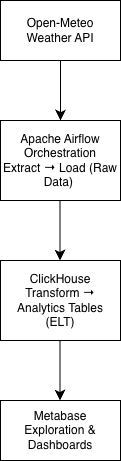
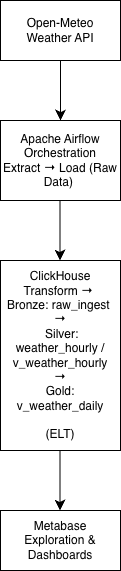
updated readme: bronze/silver/gold views to rid anomalous data, and small fixes

diff --git a/README.md b/README.md
@@ -4,7 +4,7 @@
 
 The purpose of this project is to create a **modern analytics pipeline**.
 
-**Apache Airflow** orchestrates the pipeline. It ingests raw data from **open-meteo** (a weather API), transforms the data with a DAG written in Python, stores the analytics data in **ClickHouse**, and then visualizes it with **Metabase**.
+**Apache Airflow** orchestrates the pipeline. It ingests raw data from **open-meteo** (a weather API), transforms the data with a DAG written in Python, stores the analytics data in **ClickHouse**, and then visualizes it with **Metabase**. This follows a standard ELT pattern.
 
 ---
 
@@ -30,11 +30,15 @@ The major goals were to demonstrate:
 
 ## Architectural Overview
 
-Source Data<br>
+Source Data (open-meteo API)<br>
 ↓<br>
-Airflow DAG (Extract → Transform → Load)<br>
+Airflow DAG (Extract → Load raw data)<br>
 ↓<br>
-ClickHouse (Analytics Tables)<br>
+ClickHouse — Bronze Layer (raw ingestion, append-only)<br>
+↓<br>
+ClickHouse — Silver Layer (hourly analytics, deduplicated)<br>
+↓<br>
+ClickHouse — Gold Layer (daily business metrics)<br>
 ↓<br>
 Metabase (Exploration & Dashboards)
 
@@ -42,6 +46,16 @@ Metabase (Exploration & Dashboards)
 
 ![Architecture Overview](docs/screenshots/weather-pipeline-architecture.png)
 <br>_High-level architecture overview showing data flow from ingestion to analytics and visualization._
+
+---
+
+## Key Design Decisions
+
+The following decisions were made to prioritize data correctness, flexibility, and observability.
+
+- Chose ELT over ETL to keep raw data immutable and transformations flexible
+- Used ClickHouse views for Silver/Gold layers to avoid unnecessary data duplication
+- Applied deterministic deduplication to ensure correctness under retries
 
 ---
 
@@ -61,11 +75,9 @@ Metabase (Exploration & Dashboards)
 The Airflow DAG performs the following steps:
 
 1. Extracts source data from **open-meteo**
-2. Applies transformation
-   - Currently limited to basic metadata injection
+2. Applies lightweight ingestion-time transformations
+   - Metadata enrichment (ingestion timestamp, source attribution)
 3. Loads results into a ClickHouse table
-
-### Airflow: Pipeline Orchestration
 
 ![Airflow DAG graph](docs/screenshots/airflow-dag-graph.png)
 _Airflow DAG graph showing successful execution of the ingestion pipeline._
@@ -77,9 +89,9 @@ _Task execution log confirming successful data ingestion into ClickHouse._
 
 ## ClickHouse Analytics Storage
 
-Processed data is written to a ClickHouse table that has been optimized for analytical queries.
+ClickHouse is used to store both raw ingestion data and modeled analytics layers. The database contains a mix of physical tables for durable storage and views for deduplication and metric derivation at query time.
 
-### ClickHouse row count
+### ClickHouse raw data row count example
 
 ![ClickHouse: row count of raw ingested data](docs/screenshots/clickhouse-row-count.png)
 _Query result validating number of raw records ingested._
@@ -89,10 +101,70 @@ _Query result validating number of raw records ingested._
 ![ClickHouse: first/last raw data ingestion](docs/screenshots/clickhouse-first-last-ingest.png)
 _Query result proving minimum time range covered by ingested data (as time range continues to grow)._
 
-### ClickHouse example payload
+### ClickHouse example raw payload
 
 ![ClickHouse: example of raw payload](docs/screenshots/clickhouse-example-payload.png)
 _Most recent (at time of screenshot) raw API payload stored in ClickHouse._
+
+---
+
+## Data Modeling & Analytics Layers
+
+This project follows a **Bronze / Silver / Gold** analytics layering pattern inside ClickHouse. This layered approach enables raw data traceability, deterministic analytics, and flexible metric evolution without reprocessing historical data.
+
+### Bronze — Raw Ingestion
+
+- **Table:** `weather.raw_ingest`
+- Append-only, source-of-truth
+- Contains raw API payloads plus ingestion metadata
+- Retries and replays are allowed and expected
+
+No transformations or deduplication are performed at this layer.
+
+---
+
+### Silver — Cleaned Analytics (Hourly)
+
+- **Table:** `analytics.weather_hourly`
+- **Engine:** `ReplacingMergeTree`
+- **Grain:** 1 row per location per hour
+
+Duplicate observations (caused by retries or re-ingestion) are resolved deterministically using the latest `ingested_at` timestamp.
+
+To guarantee correctness for BI tools, a view is exposed:
+
+- **View:** `analytics.v_weather_hourly`
+- Applies `FINAL` at query time to ensure no duplicate rows are ever returned
+
+This layer serves as the **trusted analytics contract** for downstream consumption.
+
+### Deduplication Strategy
+
+Weather observations are uniquely identified by `(location, observed_hour)`. Due to pipeline retries, duplicate rows may exist in raw ingestion.
+
+Deduplication is handled in ClickHouse using:
+
+- `ReplacingMergeTree` for deterministic "latest record wins" behavior
+- Query-time enforcement via `FINAL` in analytics views
+
+This ensures:
+
+- Raw data remains immutable
+- Analytics queries are always correct
+- BI dashboards are protected from duplicate-driven anomalies by construction
+
+---
+
+### Gold — Business Metrics (Daily)
+
+- **View:** `analytics.v_weather_daily`
+- Derived from the Silver hourly layer
+- Provides daily aggregates such as:
+  - Average temperature
+  - Min / max temperature
+  - Data completeness (`hours_present`)
+
+Gold metrics are implemented as **views**, meaning they are recomputed at query time and always reflect the latest available data.
 
 ---
 
@@ -104,10 +176,44 @@ Metabase connects directly to ClickHouse to provide:
 - Ad-hoc / on-demand queries
 - Dashboards for key metrics
 
-### Metabase example visualization
+### Bronze Exploration (Raw Data)
 
-![Metabase: Pasadena, CA hourly temps (C) line graph](docs/screenshots/metabase-pas-temps.png)
-_Metabase line chart showing hourly temps (C) in Pasadena, CA._
+![Metabase: Raw ingestion table](docs/screenshots/metabase-raw.png)
+_Exploration of raw ingested weather payloads (bronze layer)._
+
+Used primarily for:
+
+- Debugging ingestion
+- Validating source data
+- Identifying anomalies
+
+---
+
+### Silver Analytics — Hourly Weather
+
+![Metabase: Pasadena hourly temps (C)](docs/screenshots/metabase-hourly.png)
+_Hourly temperature trends built on the deduplicated silver layer._
+
+This visualization confirms:
+
+- Duplicate rows are resolved
+- Time-series data is clean and continuous
+
+---
+
+### Gold Metrics — Daily Aggregates
+
+![Metabase: Pasadena daily average temps](docs/screenshots/metabase-daily.png)
+_Daily average, min, and max temperatures derived from silver analytics._
+
+Gold metrics are recomputed dynamically and always reflect the latest available data.
+
+### Weather Overview — Dashboard
+
+![Metabase: Full Weather Overview Dashboard](docs/screenshots/weather-overview.png)
+_Tables showing line graphs of bronze, silver, and gold views._
+
+Dashboard clearly shows differences in bronze, silver, and gold visualizations.
 
 ---
 
@@ -136,6 +242,13 @@ _Metabase line chart showing hourly temps (C) in Pasadena, CA._
 - DNS flakiness inside Docker
 - External API availability
 
+### Data Modeling & Analytics
+
+- Anomalous data points from raw data (duplicates)
+- Deduplication of rows via silver table
+- Enforcing correct data grain
+- Separation of Bronze, Silver, and Gold analytics layers
+
 ### ClickHouse Specifics
 
 - HTTP authentication
@@ -145,6 +258,6 @@ _Metabase line chart showing hourly temps (C) in Pasadena, CA._
 
 ### Mental Overhead
 
-- Many moving pieces at once
-- Unclear failure attribution
-- Knowing when not to panic
+- Coordinating multiple distributed components simultaneously
+- Diagnosing failures across orchestration, storage, and visualization layers
+- Learning when to isolate issues methodically rather than reacting to symptoms
